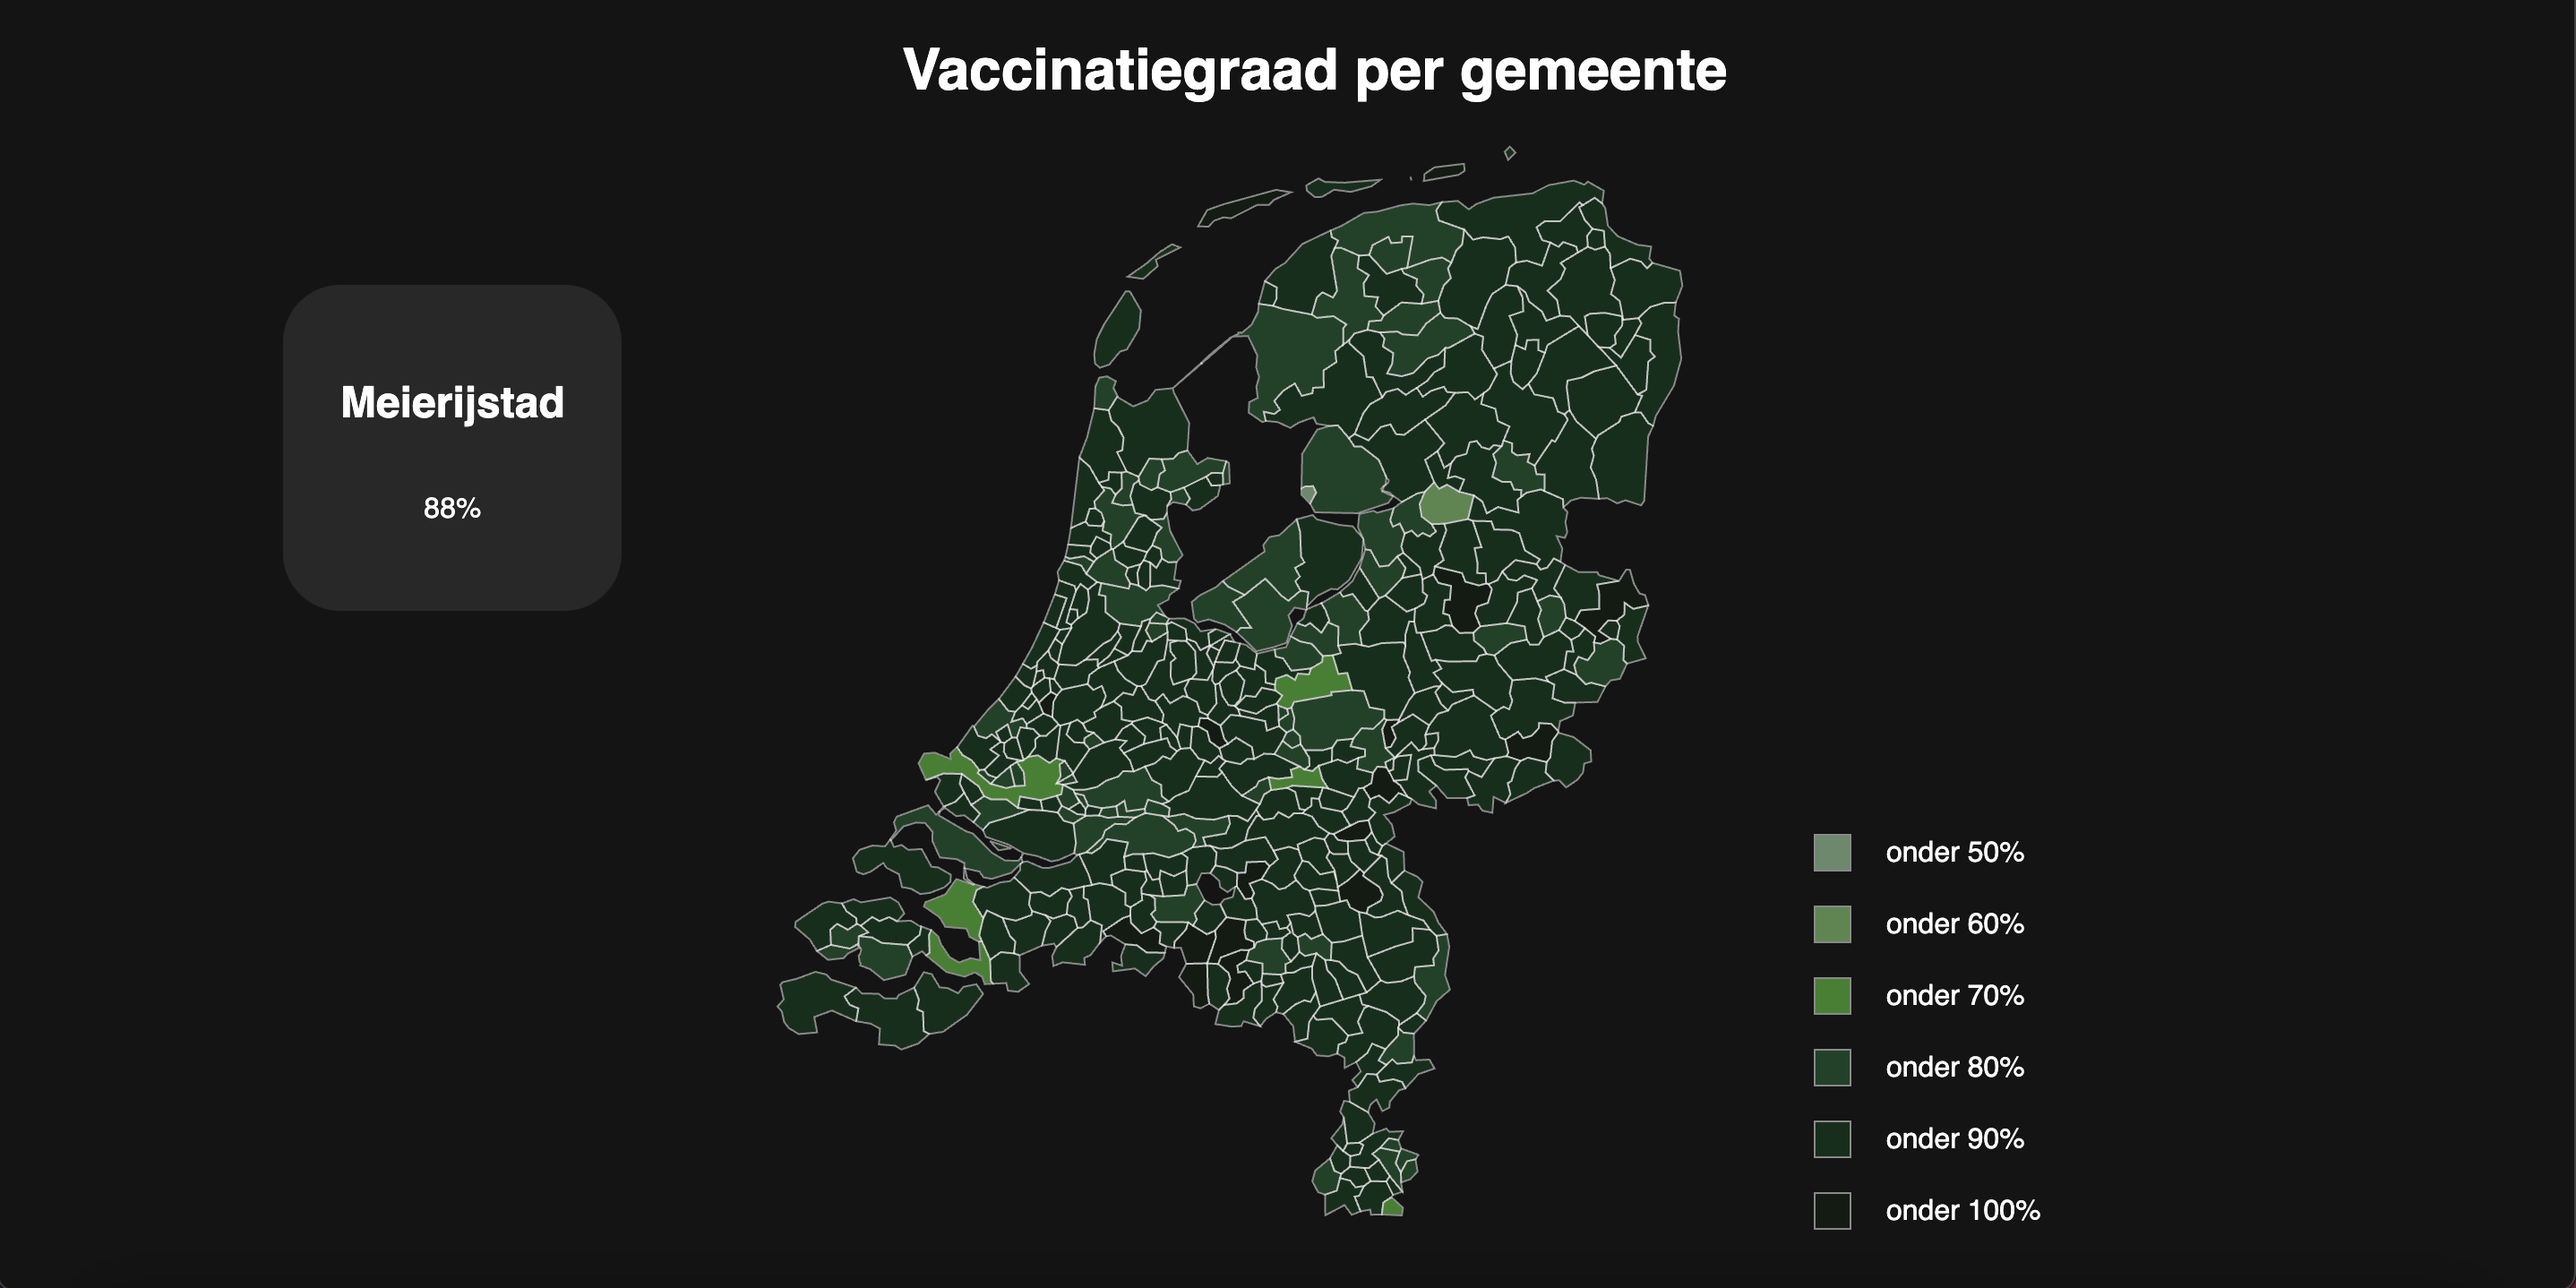
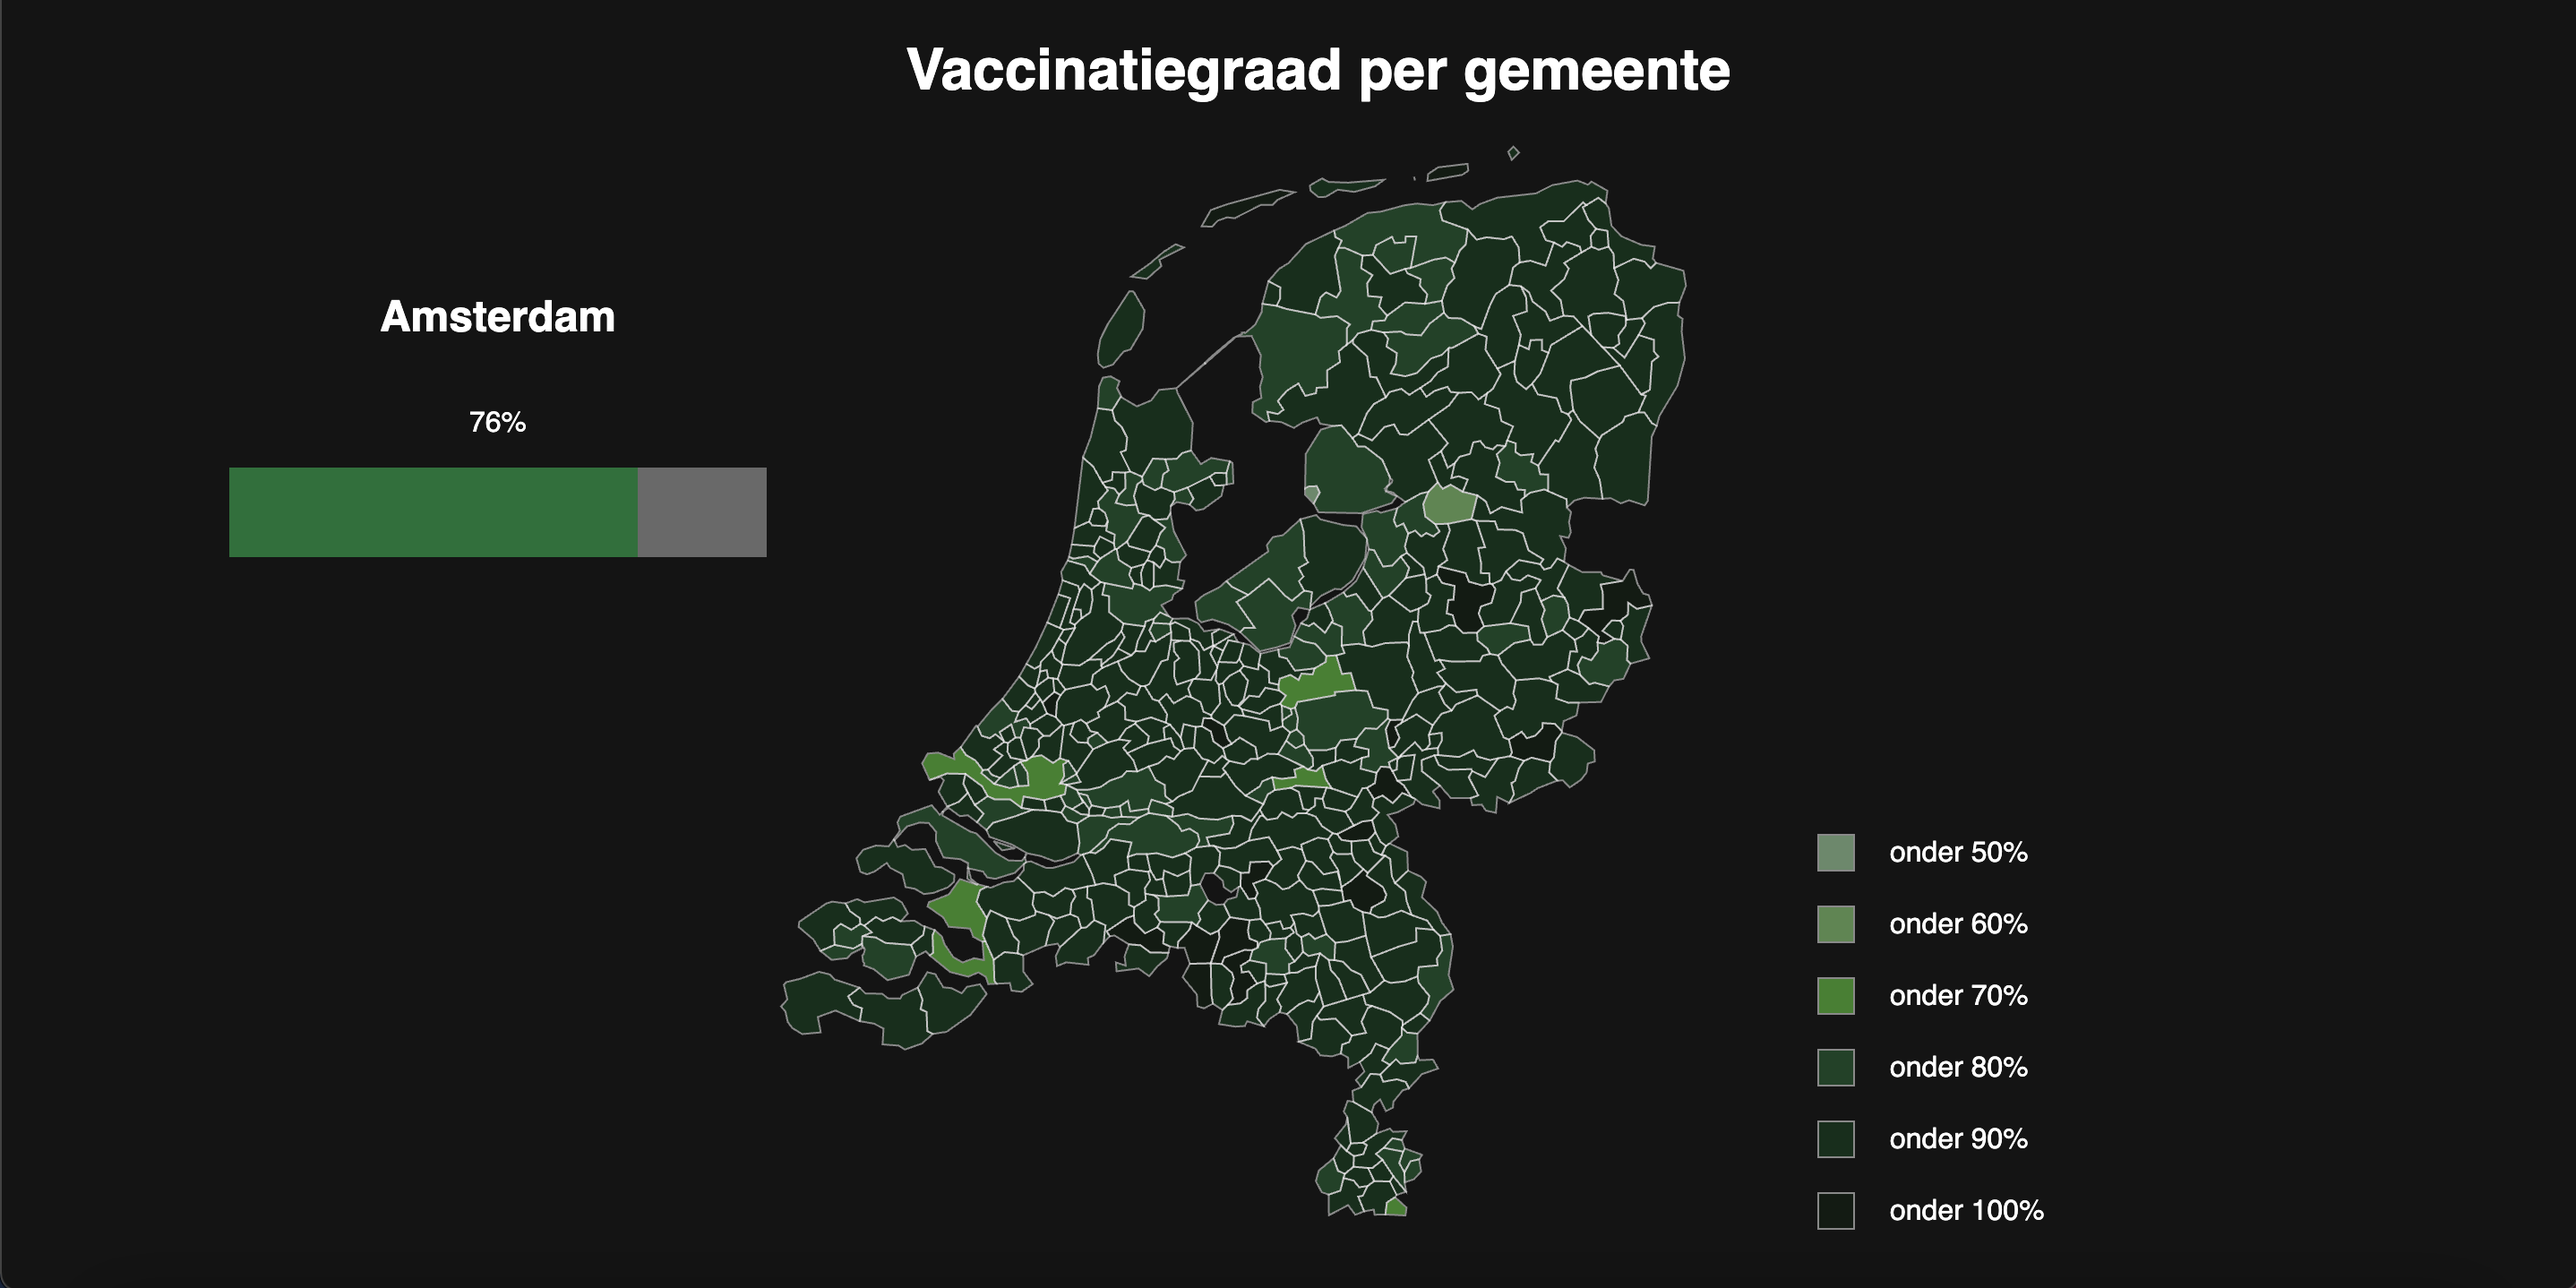
progress bar added

diff --git a/src/modules/render-map.js b/src/modules/render-map.js
@@ -5,6 +5,19 @@ let canvas = d3.select('#canvas')
 .attr('width', width)
 .attr('height', height)
 
+let svg = d3.select('#percentage')
+.append('svg')
+.attr('width', 300)
+.attr('height', 100)
+
+let bgRect = svg.append('rect')
+.attr('width', 300)
+.attr('height', 50)
+.style('opacity', 0)
+.attr('fill', 'dimgray')
+
+let fillRect = svg.append('rect')
+
 function drawMap(gemeentenData, vaccinData, colors) {
     let scale = 7500
     let projection = d3.geoMercator().scale(scale)
@@ -46,14 +59,42 @@ function drawMap(gemeentenData, vaccinData, colors) {
         let value = e.target.getAttribute('data-value')
         let gemeente = e.target.getAttribute('data-gemeente')
 
+        console.log(value)
+
+        console.log((value * 300) / 100)
+
         d3.select('#percentage')
         .style('padding', '2em')
         .select('h2')
         .text(gemeente)
 
+        bgRect.transition()
+        .style('opacity', 1)
+
+        fillRect.attr('height', 50)
+        .transition()
+        .duration(1000)
+        .attr('width', (value * 300) / 100)
+        .attr('fill', () => {
+            if (value <= 50) {
+                return colors[0].color
+            } else if (value <= 60) {
+                return colors[1].color
+            } else if (value <= 70) {
+                return colors[2].color
+            } else if (value <= 80) {
+                return colors[3].color
+            } else if (value <= 90) {
+                return colors[4].color
+            } else if (value <= 100) {
+                return colors[5].color
+            }
+        })
+
         d3.select('#percentage')
         .select('p')
         .text(value + '%')
+        
     })
 }
 

diff --git a/assets/style/style.css b/assets/style/style.css
@@ -40,11 +40,10 @@ path:hover {
     display: flex;
     flex-direction: column;
     align-items: center;
-    left: 10em;
-    top: 10em;
+    left: 6em;
+    top: 7em;
     color: white;
     width: fit-content;
-    background-color: rgb(40, 40, 40);
     border-radius: 2em;
 }
 
